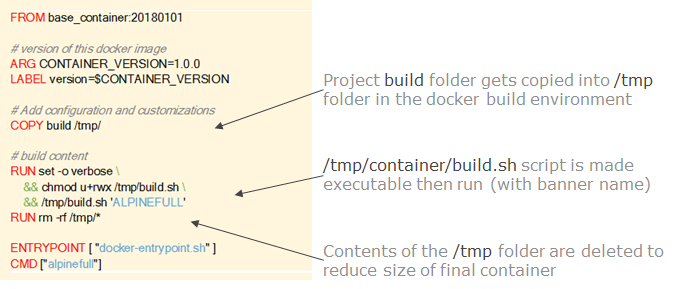
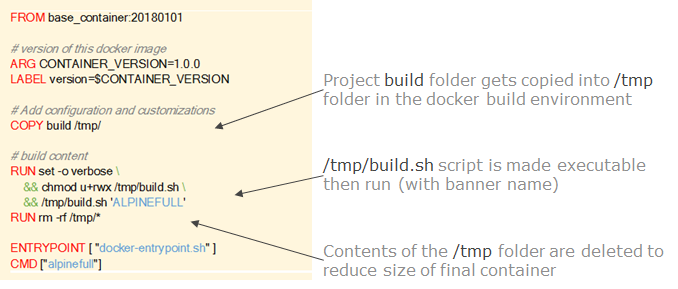
updated documentation

Changed region(s): [[0.4646, 0.5294, 0.9602, 0.6851]]

diff --git a/docs/Installation.md b/docs/Installation.md
@@ -13,7 +13,9 @@ Once installed in a GIT project, configure the project default configuration by 
 build/container_build_framework/bin/setupContainerFramework
 ```
 
-Installing the framework, will setup a `action_folder` folder in the build folder. This contains subfolders for each of the action categories performed. It also sets up symlinks in the action folders to scripts maintained in the **action.templates** folder of the container build framework. These scripts perform the most common tasks. The Dockerfile copies these action folders and the framework folder to the **/tmp** folder of the container being built. The last command in the Dockerfile deletes the contents of the **/tmp** folder. The result is that none of the framework, or any of the action folders reside in the final container.
+Installing the framework, will setup a `action_folder` folder in the build folder. This contains subfolders for each of the action categories performed. It also sets up symlinks in the action folders to 'canned scripts' maintained in the **action.templates** folder of the container build framework. These scripts perform the most common tasks. 
+
+When building the container, the Dockerfile copies these action folders and the framework folder to the **/tmp** folder of the container being built. The last command in the Dockerfile deletes the contents of the **/tmp** folder. The result is that none of the framework, or any of the action folders reside in the final container.
 
 ![build folder contents](./build_folder_contents.png) 
 
@@ -28,14 +30,18 @@ Folder | Action
 07.cleanup | Clean up 
 
 
-The `build` folder also contains zero or more **custom folders**. These folders are copied to the root of the of the file system of the container. This allows creation of files and subfolders which will be as-is inside your container. No errors occur when any of these folders do not exist.
+The `build` folder also contains zero or more **custom folders**. These folders are copied to the root of the of the file system of the container. 
+This allows creation of files and subfolders which will be as-is inside your container. No errors occur when any of these folders do not exist.
 
 ### Action Folders
-The **/tmp/build** script, called from the *DockerFile*, loads the framework library scripts, and then iterates in order, across the coresponding directories in the `action_folders` folder.
+The **/tmp/build.sh** script, called from the *DockerFile*, loads the framework library scripts, and then iterates in order, across the coresponding directories in the `action_folders` folder.
+
 The `action_folders` folder contains the instructions for the framework. The contents of this folder are processed in sorted order.
 If a folder contains any files, they are processed, otherwise it is skipped. Similarly, if a folder does not exist in the `action_folders' directory, it is skipped.
+
 As the framework processes each action folder, it ignores hidden files, it ignores subfolders and then processes the remaining files and symbolic links in alphabetically sorted order.
 For this reason, a convention is adopted, whereby each filename starts with two numbers.
+
 The framework invokes each action script in its own bash shell to prevent undesired clashes between scripts. All of the framework bash library scripts are available to actions
 
 ### Custom Folders
